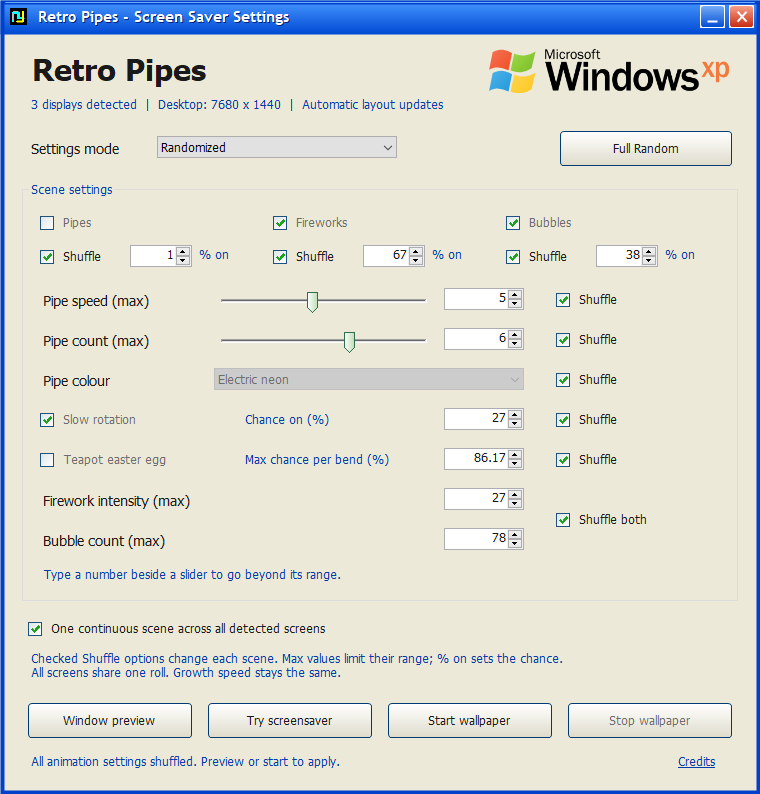
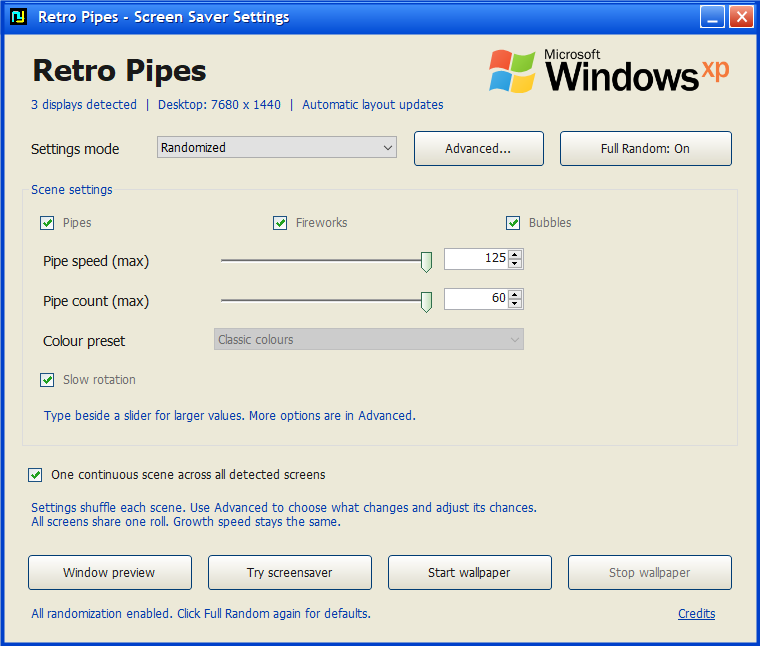
Move detailed controls into Advanced and make Full Random a defaults toggle

diff --git a/source/Launcher.cs b/source/Launcher.cs
@@ -1,4 +1,4 @@
-using System;
+using System;
 using System.Collections.Generic;
 using System.Diagnostics;
 using System.Drawing;
@@ -14,13 +14,13 @@ class Launcher : XpForm {
     NumericUpDown rotationChance,pipesChance,fireworksChance,bubblesChance,teapotChance,fireworkRate,bubbleCount;
     bool persistSettings,activeSpan,wallpaperRequested; Rectangle[] activeDisplays; NotifyIcon tray; Label status,displayStatus; Timer watch=new Timer(); Image wordmark;
     List<PipesWindow> wallpapers=new List<PipesWindow>();
-    Control fieldParent; Label speedLabel,countLabel,teapotLabel,fireworkLabel,bubbleLabel,modeHelp; XpButton stopButton; readonly List<Control> randomControls=new List<Control>(); readonly Random uiRandom=new Random(); ToolTip tips=new ToolTip();
+    Control fieldParent; Label speedLabel,countLabel,teapotLabel,fireworkLabel,bubbleLabel,modeHelp; XpButton stopButton,fullRandomButton; Panel advancedPanel; Label advancedInfo; readonly List<Control> randomControls=new List<Control>(); ToolTip tips=new ToolTip();
     System.Threading.Mutex wallpaperLock; bool ownsWallpaperLock;
     public Launcher(Settings value) : this(value,true) { }
     internal Launcher(Settings value,bool persist) {
         settings=value; settings.Validate(); persistSettings=persist;
         SuspendLayout(); fieldParent=this;
-        Text="Retro Pipes"; ClientSize=new Size(760,794); AutoScaleMode=AutoScaleMode.None;
+        Text="Retro Pipes"; ClientSize=new Size(760,646); AutoScaleMode=AutoScaleMode.None;
         MaximizeBox=false; StartPosition=FormStartPosition.CenterScreen;
         BackColor=XpTheme.Cream; ForeColor=XpTheme.Ink; Font=new Font("Tahoma",9);
         Icon=Icon.ExtractAssociatedIcon(Application.ExecutablePath);
@@ -29,42 +29,41 @@ class Launcher : XpForm {
         Label("Settings mode",28,140,120,25,10,Color.White);
         modeSelector=new ComboBox {Left=157,Top=136,Width=240,DropDownStyle=ComboBoxStyle.DropDownList};
         modeSelector.Items.AddRange(new object[]{"Manual","Randomized"}); Controls.Add(modeSelector);
-        var fullRandom=Button("Full Random",560,131,172,delegate { FullRandom(); });
-        tips.SetToolTip(fullRandom,"Pick fresh values for every animation setting and enable all shuffle options. Keeps your screen layout choice.");
-        var frame=new GroupBox {Text="Scene settings",Left=22,Top=182,Width=716,Height=420,BackColor=XpTheme.Cream,ForeColor=XpTheme.Blue};
+        Button("Advanced...",414,131,130,delegate { using(var dialog=CreateAdvancedWindow()) dialog.ShowDialog(this); });
+        fullRandomButton=Button("Full Random: Off",560,131,172,delegate { FullRandom(); });
+        tips.SetToolTip(fullRandomButton,"Turn every randomization option on. Click again to restore basic defaults. Keeps your screen layout choice.");
+        var frame=new GroupBox {Text="Scene settings",Left=22,Top=182,Width=716,Height=265,BackColor=XpTheme.Cream,ForeColor=XpTheme.Blue};
         Controls.Add(frame); fieldParent=frame;
         pipes=Check("Pipes",18,28,180,settings.Pipes); fireworks=Check("Fireworks",251,28,180,settings.Fireworks); bubbles=Check("Bubbles",484,28,180,settings.Bubbles);
-        randPipes=Check("Shuffle",18,62,88,settings.RandomPipes); pipesChance=Number(108,63,62,0,100,settings.PipesChance,0);
-        randFireworks=Check("Shuffle",251,62,88,settings.RandomFireworks); fireworksChance=Number(341,63,62,0,100,settings.FireworksChance,0);
-        randBubbles=Check("Shuffle",484,62,88,settings.RandomBubbles); bubblesChance=Number(574,63,62,0,100,settings.BubblesChance,0);
-        randomControls.AddRange(new Control[]{randPipes,pipesChance,randFireworks,fireworksChance,randBubbles,bubblesChance,
-            Label("% on",174,65,54,24,9,Color.LightSteelBlue),Label("% on",407,65,54,24,9,Color.LightSteelBlue),Label("% on",640,65,58,24,9,Color.LightSteelBlue)});
-        speedLabel=Label("Pipe speed",18,110,170,24,10,Color.White);
-        speed=Slider(100,10,settings.Speed); speedNumber=Number(422,106,80,1,Settings.MaxSpeed,settings.Speed,0); Bind(speed,speedNumber);
-        randSpeed=Check("Shuffle",534,105,160,settings.RandomSpeed);
-        countLabel=Label("Pipe count",18,150,170,24,10,Color.White);
-        count=Slider(140,9,settings.Count); countNumber=Number(422,146,80,1,Settings.MaxCount,settings.Count,0); Bind(count,countNumber);
-        randCount=Check("Shuffle",534,145,160,settings.RandomCount);
-        Label("Pipe colour",18,190,170,24,10,Color.White);
-        palette=new ComboBox {Left=192,Top=186,Width=310,DropDownStyle=ComboBoxStyle.DropDownList};
+        speedLabel=Label("Pipe speed",18,70,170,24,10,Color.White);
+        speed=Slider(60,10,settings.Speed); speedNumber=Number(422,66,80,1,Settings.MaxSpeed,settings.Speed,0); Bind(speed,speedNumber);
+        countLabel=Label("Pipe count",18,110,170,24,10,Color.White);
+        count=Slider(100,9,settings.Count); countNumber=Number(422,106,80,1,Settings.MaxCount,settings.Count,0); Bind(count,countNumber);
+        Label("Colour preset",18,150,170,24,10,Color.White);
+        palette=new ComboBox {Left=192,Top=146,Width=310,DropDownStyle=ComboBoxStyle.DropDownList};
         palette.Items.AddRange(new object[]{"Classic colours","Electric neon","Polished chrome"}); palette.SelectedIndex=settings.Palette; frame.Controls.Add(palette);
-        randPalette=Check("Shuffle",534,185,160,settings.RandomPalette);
-        rotate=Check("Slow rotation",18,225,180,settings.Rotate);
-        rotationChance=Number(422,226,80,0,100,settings.RotationChance,0);
-        randomControls.Add(Label("Chance on (%)",220,230,195,24,9,Color.LightSteelBlue)); randomControls.Add(rotationChance);
-        randRotation=Check("Shuffle",534,225,160,settings.RandomRotation);
-        teapots=Check("Teapot easter egg",18,265,200,settings.Teapots);
-        teapotLabel=Label("Chance per bend (%)",220,270,195,24,9,Color.LightSteelBlue);
-        teapotChance=Number(422,266,80,0,100,(decimal)settings.TeapotChance,2);
-        randTeapots=Check("Shuffle",534,265,160,settings.RandomTeapots);
-        fireworkLabel=Label("Firework intensity",18,310,220,24,10,Color.White); fireworkRate=Number(422,306,80,1,30,settings.FireworkRate,0);
-        bubbleLabel=Label("Bubble count",18,350,220,24,10,Color.White); bubbleCount=Number(422,346,80,1,100,settings.BubbleCount,0);
-        randDensity=Check("Shuffle both",534,325,165,settings.RandomEffectDensity);
-        Label("Type a number beside a slider to go beyond its range.",18,385,670,23,9,Color.LightSteelBlue);
-        randomControls.AddRange(new Control[]{randSpeed,randCount,randPalette,randRotation,randTeapots,randDensity});
+        rotate=Check("Slow rotation",18,185,180,settings.Rotate);
+        Label("Type beside a slider for larger values. More options are in Advanced.",18,226,680,23,9,Color.LightSteelBlue);
+
+        advancedPanel=new Panel {Left=18,Top=48,Width=680,Height=430,BackColor=XpTheme.Cream}; fieldParent=advancedPanel;
+        teapots=Check("Teapot easter egg",18,12,200,settings.Teapots);
+        teapotLabel=Label("Chance per bend (%)",228,17,182,24,9,Color.LightSteelBlue);
+        teapotChance=Number(414,13,80,0,100,(decimal)settings.TeapotChance,2);
+        randTeapots=Check("Shuffle",518,12,144,settings.RandomTeapots);
+        fireworkLabel=Label("Firework intensity",18,58,270,24,10,Color.White); fireworkRate=Number(414,54,80,1,30,settings.FireworkRate,0);
+        bubbleLabel=Label("Bubble count",18,98,270,24,10,Color.White); bubbleCount=Number(414,94,80,1,100,settings.BubbleCount,0);
+        randDensity=Check("Shuffle both",518,74,144,settings.RandomEffectDensity);
+        advancedInfo=Label("",18,143,644,40,9,Color.LightSteelBlue);
+        randSpeed=Check("Shuffle speed",18,188,196,settings.RandomSpeed); randCount=Check("Shuffle count",236,188,196,settings.RandomCount); randPalette=Check("Shuffle colour",454,188,204,settings.RandomPalette);
+        randomControls.Add(Label("Rotation chance (%)",18,232,320,24,10,Color.White)); rotationChance=Number(414,228,80,0,100,settings.RotationChance,0); randRotation=Check("Shuffle",518,228,144,settings.RandomRotation);
+        randomControls.Add(Label("Pipes chance (%)",18,274,320,24,10,Color.White)); pipesChance=Number(414,270,80,0,100,settings.PipesChance,0); randPipes=Check("Shuffle",518,270,144,settings.RandomPipes);
+        randomControls.Add(Label("Fireworks chance (%)",18,316,320,24,10,Color.White)); fireworksChance=Number(414,312,80,0,100,settings.FireworksChance,0); randFireworks=Check("Shuffle",518,312,144,settings.RandomFireworks);
+        randomControls.Add(Label("Bubbles chance (%)",18,358,320,24,10,Color.White)); bubblesChance=Number(414,354,80,0,100,settings.BubblesChance,0); randBubbles=Check("Shuffle",518,354,144,settings.RandomBubbles);
+        randomControls.AddRange(new Control[]{randSpeed,randCount,randPalette,randRotation,randTeapots,randDensity,randPipes,randFireworks,randBubbles,rotationChance,pipesChance,fireworksChance,bubblesChance});
+        randomControls.Add(Label("Untick Shuffle to use a fixed manual value. Chances apply at each scene reset.",18,400,644,25,9,Color.LightSteelBlue));
         fieldParent=this;
-        spanScreens=Check("One continuous scene across all detected screens",28,616,704,settings.SpanAllScreens);
-        modeHelp=Label("",28,651,704,43,9,Color.LightSteelBlue);
+        spanScreens=Check("One continuous scene across all detected screens",28,462,704,settings.SpanAllScreens);
+        modeHelp=Label("",28,500,704,43,9,Color.LightSteelBlue);
         modeSelector.SelectedIndexChanged+=delegate { UpdateMode(); };
         spanScreens.CheckedChanged+=delegate { UpdateMode(); };
         foreach(var control in randomControls) {
@@ -75,12 +74,12 @@ class Launcher : XpForm {
         tips.SetToolTip(speedNumber,"Type 1–1000. The slider covers 1–10; larger typed values are retained.");
         tips.SetToolTip(countNumber,"Type 1–500. The slider covers 1–9; larger typed values are retained.");
         modeSelector.SelectedIndex=settings.RandomizeEachRun?1:0;
-        Button("Window preview",28,703,164,delegate { Save(); new PipesWindow(settings,"window",DisplayLayout.PreviewBounds(settings.SpanAllScreens),IntPtr.Zero).Show(); });
-        Button("Try screensaver",208,703,164,delegate { Save(); Process.Start(Application.ExecutablePath,"/s"); });
-        Button("Start wallpaper",388,703,164,delegate { StartWallpaper(); });
-        stopButton=Button("Stop wallpaper",568,703,164,delegate { StopWallpaper(); }); stopButton.Enabled=false;
-        status=Label("Ready. Choose a preview, screensaver or wallpaper.",28,754,632,25,9,Color.LightSteelBlue);
-        var credits=new LinkLabel {Text="Credits",Left=675,Top=754,Width=58,Height=23,LinkColor=XpTheme.Blue};
+        Button("Window preview",28,555,164,delegate { Save(); new PipesWindow(settings,"window",DisplayLayout.PreviewBounds(settings.SpanAllScreens),IntPtr.Zero).Show(); });
+        Button("Try screensaver",208,555,164,delegate { Save(); Process.Start(Application.ExecutablePath,"/s"); });
+        Button("Start wallpaper",388,555,164,delegate { StartWallpaper(); });
+        stopButton=Button("Stop wallpaper",568,555,164,delegate { StopWallpaper(); }); stopButton.Enabled=false;
+        status=Label("Ready. Choose a preview, screensaver or wallpaper.",28,606,632,25,9,Color.LightSteelBlue);
+        var credits=new LinkLabel {Text="Credits",Left=675,Top=606,Width=58,Height=23,LinkColor=XpTheme.Blue};
         credits.LinkClicked+=delegate {
             using(var stream=Assembly.GetExecutingAssembly().GetManifestResourceStream("RetroPipes.ThirdPartyNotices"))
             using(var reader=new StreamReader(stream)) MessageBox.Show(reader.ReadToEnd(),"Retro Pipes — third-party credits");
@@ -118,21 +117,44 @@ class Launcher : XpForm {
         pipes.Enabled=!(random&&randPipes.Checked); fireworks.Enabled=!(random&&randFireworks.Checked); bubbles.Enabled=!(random&&randBubbles.Checked);
         rotate.Enabled=!(random&&randRotation.Checked); palette.Enabled=!(random&&randPalette.Checked); teapots.Enabled=!(random&&randTeapots.Checked);
         pipesChance.Enabled=randPipes.Checked; fireworksChance.Enabled=randFireworks.Checked; bubblesChance.Enabled=randBubbles.Checked; rotationChance.Enabled=randRotation.Checked;
-        modeHelp.Text=random?"Checked Shuffle options change each scene. Max values limit their range; % on sets the chance.\n"+(spanScreens.Checked?"All screens share one roll. Growth speed stays the same.":"Each screen rolls its own settings independently."):
+        fullRandomButton.Text=FullRandomEnabled?"Full Random: On":"Full Random: Off";
+        advancedInfo.Text=random?"Choose which settings change each scene. Max values limit their range; percentages set the chance.":"Choose Randomized in the main window to adjust individual shuffle options and chances.";
+        modeHelp.Text=random?"Settings shuffle each scene. Use Advanced to choose what changes and adjust its chances.\n"+(spanScreens.Checked?"All screens share one roll. Growth speed stays the same.":"Each screen rolls its own settings independently."):
             "Choose one or more effects to overlap, then adjust their settings.\n"+(spanScreens.Checked?"One scene fills the whole desktop naturally, at the same growth speed.":"Each display generates its own scene using these settings.");
         ResumeLayout(false); Invalidate(true);
     }
+    internal bool FullRandomEnabled { get { return modeSelector.SelectedIndex==1&&randSpeed.Checked&&randCount.Checked&&randPalette.Checked&&randRotation.Checked&&randPipes.Checked&&randFireworks.Checked&&randBubbles.Checked&&randDensity.Checked&&randTeapots.Checked; } }
+    internal XpForm CreateAdvancedWindow() {
+        bool random=modeSelector.SelectedIndex==1;
+        var dialog=new XpForm {Text="Retro Pipes - Advanced Settings",ClientSize=new Size(716,random?550:302),StartPosition=FormStartPosition.CenterParent,Icon=Icon};
+        advancedPanel.Height=random?430:188; dialog.Controls.Add(advancedPanel);
+        var done=new XpButton {Text="Done",Left=568,Top=dialog.ClientSize.Height-52,Width=126,Height=35,BackColor=XpTheme.Cream,DialogResult=DialogResult.OK};
+        dialog.Controls.Add(done); dialog.AcceptButton=done; dialog.CancelButton=done;
+        // Keep the same live controls and values when the temporary dialog is disposed.
+        dialog.FormClosed+=delegate { dialog.Controls.Remove(advancedPanel); };
+        return dialog;
+    }
     internal void FullRandom() {
-        speedNumber.Value=uiRandom.Next(1,11); countNumber.Value=uiRandom.Next(1,10); palette.SelectedIndex=uiRandom.Next(3);
-        rotate.Checked=uiRandom.Next(2)==1; teapots.Checked=uiRandom.Next(2)==1;
-        int layers=uiRandom.Next(1,8); pipes.Checked=(layers&1)!=0; fireworks.Checked=(layers&2)!=0; bubbles.Checked=(layers&4)!=0;
-        fireworkRate.Value=uiRandom.Next(1,31); bubbleCount.Value=uiRandom.Next(1,101);
-        teapotChance.Value=uiRandom.Next(1,10001)/100m;
-        rotationChance.Value=uiRandom.Next(101); pipesChance.Value=uiRandom.Next(101); fireworksChance.Value=uiRandom.Next(101); bubblesChance.Value=uiRandom.Next(101);
-        randSpeed.Checked=randCount.Checked=randPalette.Checked=randRotation.Checked=true;
-        randPipes.Checked=randFireworks.Checked=randBubbles.Checked=randDensity.Checked=randTeapots.Checked=true;
-        modeSelector.SelectedIndex=1;
-        status.Text="All animation settings shuffled. Preview or start to apply.";
+        if(FullRandomEnabled) {
+            var defaults=new Settings();
+            modeSelector.SelectedIndex=0;
+            speedNumber.Value=defaults.Speed; countNumber.Value=defaults.Count; palette.SelectedIndex=defaults.Palette;
+            rotate.Checked=defaults.Rotate; pipes.Checked=defaults.Pipes; fireworks.Checked=defaults.Fireworks; bubbles.Checked=defaults.Bubbles;
+            teapots.Checked=defaults.Teapots; teapotChance.Value=(decimal)defaults.TeapotChance;
+            fireworkRate.Value=defaults.FireworkRate; bubbleCount.Value=defaults.BubbleCount;
+            rotationChance.Value=defaults.RotationChance; pipesChance.Value=defaults.PipesChance; fireworksChance.Value=defaults.FireworksChance; bubblesChance.Value=defaults.BubblesChance;
+            randSpeed.Checked=defaults.RandomSpeed; randCount.Checked=defaults.RandomCount; randPalette.Checked=defaults.RandomPalette; randRotation.Checked=defaults.RandomRotation;
+            randPipes.Checked=defaults.RandomPipes; randFireworks.Checked=defaults.RandomFireworks; randBubbles.Checked=defaults.RandomBubbles;
+            randDensity.Checked=defaults.RandomEffectDensity; randTeapots.Checked=defaults.RandomTeapots;
+            status.Text="Basic defaults restored. Preview or start to apply.";
+        } else {
+            pipes.Checked=fireworks.Checked=bubbles.Checked=rotate.Checked=teapots.Checked=true;
+            randSpeed.Checked=randCount.Checked=randPalette.Checked=randRotation.Checked=true;
+            randPipes.Checked=randFireworks.Checked=randBubbles.Checked=randDensity.Checked=randTeapots.Checked=true;
+            modeSelector.SelectedIndex=1;
+            status.Text="All randomization enabled. Click Full Random again for defaults.";
+        }
+        UpdateMode();
     }
     Label Label(string text,int x,int y,int width,int height,int size,Color color) {
         var label=new Label {Text=text,Left=x,Top=y,Width=width,Height=height,Font=new Font("Tahoma",size,size>=18?FontStyle.Bold:FontStyle.Regular),ForeColor=color==Color.White?XpTheme.Ink:XpTheme.Blue,BackColor=XpTheme.Cream,UseMnemonic=false}; fieldParent.Controls.Add(label); return label;
@@ -184,6 +206,6 @@ class Launcher : XpForm {
         stopButton.Enabled=false; tray.Visible=false; status.Text="Wallpaper is stopped. Your original background is unchanged.";
     }
     protected override void OnFormClosing(FormClosingEventArgs e) { Save(); StopWallpaper(); watch.Dispose(); tray.Dispose(); tips.Dispose(); base.OnFormClosing(e); }
-    protected override void OnFormClosed(FormClosedEventArgs e) { if(wordmark!=null) wordmark.Dispose(); base.OnFormClosed(e); }
+    protected override void OnFormClosed(FormClosedEventArgs e) { if(wordmark!=null) wordmark.Dispose(); advancedPanel.Dispose(); base.OnFormClosed(e); }
 }
 }

diff --git a/source/UiTests.cs b/source/UiTests.cs
@@ -54,13 +54,36 @@ static class UiTests {
                 launcher.DrawToBitmap(after,launcher.ClientRectangle); SamePixels(baseline,after,"Switching modes left stale controls");
             }
             if(launcher.speedNumber.Value!=125||launcher.countNumber.Value!=60) throw new Exception("Mode switch lost typed overrides");
+            using(var advanced=launcher.CreateAdvancedWindow()) {
+                advanced.StartPosition=FormStartPosition.Manual; advanced.Location=new Point(-16000,-16000); advanced.Show(); Application.DoEvents();
+                using(var bitmap=new Bitmap(advanced.Width,advanced.Height)) { advanced.DrawToBitmap(bitmap,advanced.ClientRectangle); bitmap.Save(Path.Combine(dir,"Advanced-manual-preview.png"),ImageFormat.Png); }
+                advanced.Close();
+            }
             launcher.FullRandom();
-            if(launcher.modeSelector.SelectedIndex!=1) throw new Exception("Full Random did not select randomized mode");
+            if(!launcher.FullRandomEnabled||launcher.speedNumber.Value!=125||launcher.countNumber.Value!=60) throw new Exception("Full Random did not enable all options or changed entered limits");
+            using(var advanced=launcher.CreateAdvancedWindow()) {
+                advanced.StartPosition=FormStartPosition.Manual; advanced.Location=new Point(-16000,-16000); advanced.Show(); Application.DoEvents();
+                using(var bitmap=new Bitmap(advanced.Width,advanced.Height)) { advanced.DrawToBitmap(bitmap,advanced.ClientRectangle); bitmap.Save(Path.Combine(dir,"Advanced-preview.png"),ImageFormat.Png); }
+                advanced.Close();
+            }
             using(var bitmap=new Bitmap(launcher.Width,launcher.Height)) { launcher.DrawToBitmap(bitmap,launcher.ClientRectangle); bitmap.Save(Path.Combine(dir,"Randomized-preview.png"),ImageFormat.Png); }
             launcher.Close();
         }
         if(!settings.RandomizeEachRun||!settings.RandomSpeed||!settings.RandomCount||!settings.RandomPalette||!settings.RandomRotation||!settings.RandomPipes||!settings.RandomFireworks||!settings.RandomBubbles||!settings.RandomEffectDensity||!settings.RandomTeapots||!settings.SpanAllScreens)
             throw new Exception("Full Random omitted a category or changed the display layout");
+        var toggled=settings.Copy();
+        using(var launcher=new Launcher(toggled,false)) {
+            launcher.StartPosition=FormStartPosition.Manual; launcher.Location=new Point(-16000,-16000); launcher.Show(); Application.DoEvents();
+            if(!launcher.FullRandomEnabled) throw new Exception("Reopened controls lost Full Random state");
+            launcher.FullRandom();
+            if(launcher.FullRandomEnabled||launcher.modeSelector.SelectedIndex!=0) throw new Exception("Second click did not turn Full Random off");
+            launcher.Close();
+        }
+        var defaults=new Settings {SpanAllScreens=true};
+        using(var expected=new StringWriter()) using(var actual=new StringWriter()) {
+            var serializer=new System.Xml.Serialization.XmlSerializer(typeof(Settings)); serializer.Serialize(expected,defaults); serializer.Serialize(actual,toggled);
+            if(expected.ToString()!=actual.ToString()) throw new Exception("Full Random off did not restore basic defaults and preserve screen layout");
+        }
         var rng=new Random(15); bool enabled=false,disabled=false; double first=-1; bool varied=false;
         for(int i=0;i<100;i++) {
             var roll=settings.ForRun(rng); enabled|=roll.Teapots; disabled|=!roll.Teapots;

diff --git a/source/XpTheme.cs b/source/XpTheme.cs
@@ -1,4 +1,4 @@
-using System;
+using System;
 using System.Drawing;
 using System.Drawing.Drawing2D;
 using System.Runtime.InteropServices;
@@ -48,8 +48,8 @@ class XpForm : Form {
         using(var p=new Pen(Color.FromArgb(108,175,255))) g.DrawLine(p,5,2,Width-6,2);
         if(Icon!=null) g.DrawIcon(Icon,new Rectangle(10,8,17,17));
         using(var font=new Font("Trebuchet MS",11,FontStyle.Bold)) {
-            TextRenderer.DrawText(g,"Retro Pipes - Screen Saver Settings",font,new Point(35,7),Color.FromArgb(0,37,121),XpTheme.PaintText);
-            TextRenderer.DrawText(g,"Retro Pipes - Screen Saver Settings",font,new Point(34,6),Color.White,XpTheme.PaintText);
+            TextRenderer.DrawText(g,Text=="Retro Pipes"?"Retro Pipes - Screen Saver Settings":Text,font,new Point(35,7),Color.FromArgb(0,37,121),XpTheme.PaintText);
+            TextRenderer.DrawText(g,Text=="Retro Pipes"?"Retro Pipes - Screen Saver Settings":Text,font,new Point(34,6),Color.White,XpTheme.PaintText);
         }
 
     }

diff --git a/source/Pipes.cs b/source/Pipes.cs
@@ -573,7 +573,7 @@ static class Tests {
         if(uiSettings.Speed!=42||uiSettings.Count!=30||!uiSettings.SpanAllScreens) throw new Exception("Closing controls lost above-slider values or spanning mode");
         log.Add("PASS: launcher controls render and close cleanly.");
         UiTests.Run(dir);
-        log.Add("PASS: clipped/translated paints, stale-pixel removal, 30 mode switches, typed overrides, Full Random, teapot randomization and persistence.");
+        log.Add("PASS: clipped/translated paints, stale-pixel removal, 30 mode switches, typed overrides, reusable Advanced dialog, Full Random on/off/defaults and persistence, teapot randomization.");
         using(var resource=System.Reflection.Assembly.GetExecutingAssembly().GetManifestResourceStream("RetroPipes.ThirdPartyNotices"))
             if(resource==null||resource.Length==0) throw new Exception("Teapot data license is missing from binary");
         File.WriteAllLines(Path.Combine(dir,"test-results.txt"),log.ToArray());

diff --git a/README.md b/README.md
@@ -6,7 +6,7 @@ Classic-inspired 3D pipes, fireworks and glass bubbles. Run each one alone or ov
 
 ## Download and run
 
-Download **Retro-Pipes-v1.5.zip** from the [latest release](https://github.com/S0MBRX/retro-pipes/releases/latest), extract it, and open **RetroPipes.exe**.
+Download **Retro-Pipes-v1.6.zip** from the [latest release](https://github.com/S0MBRX/retro-pipes/releases/latest), extract it, and open **RetroPipes.exe**.
 
 - **Start wallpaper** animates behind desktop icons. Use its system-tray icon to open controls or stop it.
 - **Try screensaver** fills your displays. Move the mouse or press any key to exit.
@@ -19,7 +19,11 @@ Download **Retro-Pipes-v1.5.zip** from the [latest release](https://github.com/S
 
 The control panel uses an XP-style blue title bar, cream panels, classic buttons, green checkmarks and the Windows XP wordmark. The title bar can be dragged; minimize and close work normally. The header shows the current display count and desktop size.
 
-Choose **Manual** or **Randomized** from the dropdown above one shared settings frame. Inside the frame, tick **Pipes**, **Fireworks**, and/or **Bubbles** to select any combination. The former layer preset buttons and three competing random presets have been removed. Randomized mode reveals shuffle choices beside the same controls; Manual hides them. Switching modes preserves your entered values.
+Choose **Manual** or **Randomized** from the dropdown above one compact settings frame. Tick **Pipes**, **Fireworks**, and/or **Bubbles** to select any combination. Speed, pipe count, colour preset, slow rotation and screen layout remain on the main panel. Switching modes preserves entered values.
+
+**Advanced...** opens teapot settings, firework intensity, bubble count, and (in Randomized mode) every individual Shuffle switch and rotation/layer chance. Closing Advanced keeps your edits; hiding the controls does not disable their settings. Existing colour presets remain in the main panel; a custom palette editor is not included.
+
+![Advanced settings in Randomized mode](Advanced-preview.png)
 
 Custom controls now clear their previous pixels and preserve the graphics clipping region and origin when drawing text. This fixes text escaping its control during partial repaints and prevents old text/checkmarks/slider positions from sticking.
 
@@ -31,13 +35,13 @@ The number boxes accept **speed 1–1000** and **pipe count 1–500**, beyond th
 
 ### Teapot easter egg
 
-Enable **Teapot easter egg** for an occasional Utah teapot at a pipe bend. The default chance is **0.5% per bend**; the number box accepts 0–100%. A larger value makes it easier to spot.
+Enable **Teapot easter egg** in **Advanced...** for an occasional Utah teapot at a pipe bend. The default chance is **0.5% per bend**; the number box accepts 0–100%. A larger value makes it easier to spot.
 
 ![Teapots at pipe bends, with the chance increased for demonstration](Teapot-preview.png)
 
 ### Independent random cycles
 
-Choose **Randomized**, then tick **Shuffle** beside each setting that should change:
+Choose **Randomized**, open **Advanced...**, then tick **Shuffle** beside each setting that should change:
 
 - **Pipe speed / Pipe count / Pipe colour** independently randomize those settings. Numbers range from 1 to your entered maxima; colour chooses one of the three themes.
 - **Slow rotation** independently chooses rotation on/off using the percentage beside it.
@@ -45,9 +49,11 @@ Choose **Randomized**, then tick **Shuffle** beside each setting that should cha
 - **Shuffle both**, beside firework intensity and bubble count, rolls those amounts from 1 to your entered maxima.
 - **Teapot easter egg** shuffles the on/off switch with a 50% chance, and its per-bend probability from zero to your entered maximum. Leave its Shuffle box unticked to keep your preferred probability.
 
-**Full Random** picks fresh values for every animation setting and enables every Shuffle option, including teapots. It also rerolls rotation/layer probabilities and the effect amounts. Fresh pipe speed/count limits use the convenient slider ranges (1–10 and 1–9); you can then type higher limits. It keeps your spanning/separate-screen choice. Preview or start a mode to apply the new configuration. Each subsequent scene rolls independently within these new limits.
+**Full Random** is an on/off toggle. The first click enables all animation layers, rotation, teapots, and every Shuffle category, using your existing numeric limits and probabilities. It selects Randomized mode; the button reads **Full Random: On**. Each new scene then rolls its settings. It no longer randomly replaces the numbers in the control panel.
 
-![Randomized mode in the same settings frame](Randomized-preview.png)
+Click it again to restore the basic **Manual** defaults: pipes only, speed 5, count 5, Classic colours, rotation off, rare teapots at 0.5%, firework intensity 4 and bubble count 16. Default shuffle choices and chance percentages are restored too. Your spanning/separate-screen preference is kept in both directions. Preview or start a mode to apply the configuration. The button reflects the current selection of Shuffle categories, including after reopening the app.
+
+![Compact main panel with Full Random enabled](Randomized-preview.png)
 
 In separate-screen mode, each monitor rolls independently on start, when its scene finishes, on R in a preview, or through **Roll new scenes on every screen** in the tray menu. Pipe scenes finish when full; effects-only scenes cycle after 35–60 seconds. Random values can occasionally match by chance, but no settings roll is shared across separate scenes.
 
@@ -100,6 +106,6 @@ if ($process.ExitCode -ne 0) { throw 'Self-test failed. See work/test-error.txt.
 Get-Content .\work\test-results.txt
 ```
 
-The tests exercise selective random settings, 0%/100% chances, old-settings migration, extended values, serialization, high-speed growth, dense scenes, collision avoidance, scene cycling, teapot generation, all seven layer combinations, three simultaneous independent screen cycles, layouts with 1–64 displays, view rebuilding for 1/5/2 displays, seamless shared projections, rendered-slice comparison against a full scene, unchanged spanning growth speed/count, desktop attachment, bounded effects, OpenGL rendering, preview embedding and launcher controls. UI regression tests check clipped and translated repaints, removal of stale pixels, 30 mode switches, typed overrides, Full Random, and teapot randomization/persistence. The clipping regression fails against the previous drawing code and passes with the fix. Test windows are placed offscreen. Tests leave saved user settings unchanged. Layout tests simulate large monitor counts; physical desktop attachment was tested on a three-monitor setup.
+The tests exercise selective random settings, 0%/100% chances, old-settings migration, extended values, serialization, high-speed growth, dense scenes, collision avoidance, scene cycling, teapot generation, all seven layer combinations, three simultaneous independent screen cycles, layouts with 1–64 displays, view rebuilding for 1/5/2 displays, seamless shared projections, rendered-slice comparison against a full scene, unchanged spanning growth speed/count, desktop attachment, bounded effects, OpenGL rendering, preview embedding and launcher controls. UI regression tests check clipped and translated repaints, removal of stale pixels, 30 mode switches, typed overrides, repeated Advanced-dialog opening, Full Random on/off/default restoration and persistence, and teapot randomization. The clipping regression fails against the previous drawing code and passes with the fix. Test windows are placed offscreen. Tests leave saved user settings unchanged. Layout tests simulate large monitor counts; physical desktop attachment was tested on a three-monitor setup.
 
 See [README.txt](README.txt) for command-line modes and uninstall instructions.
